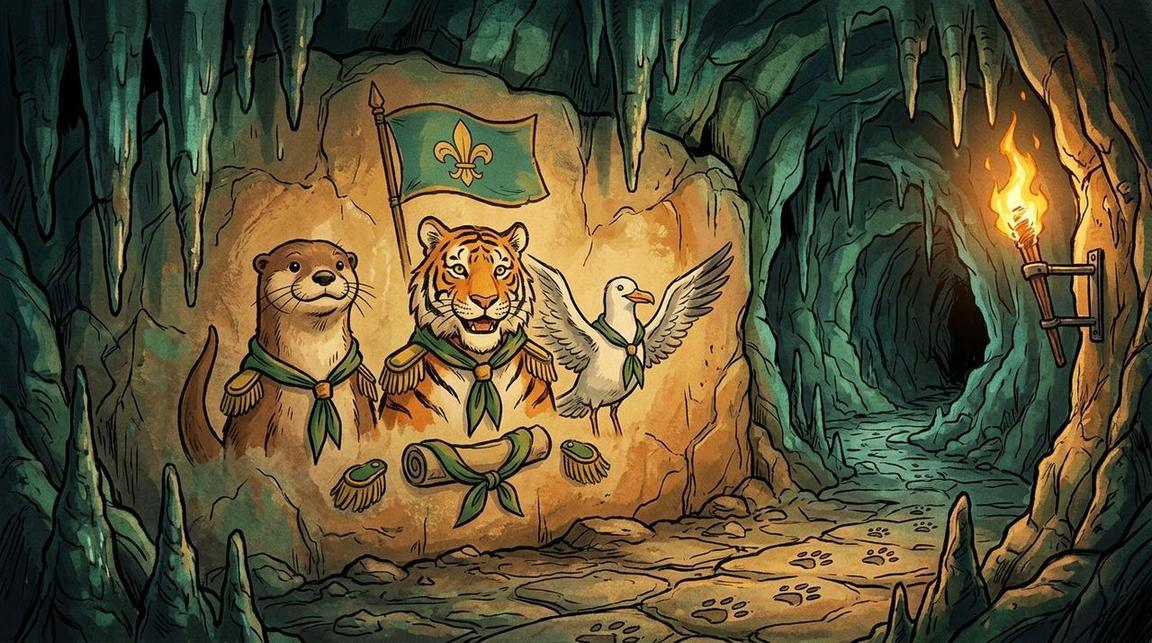
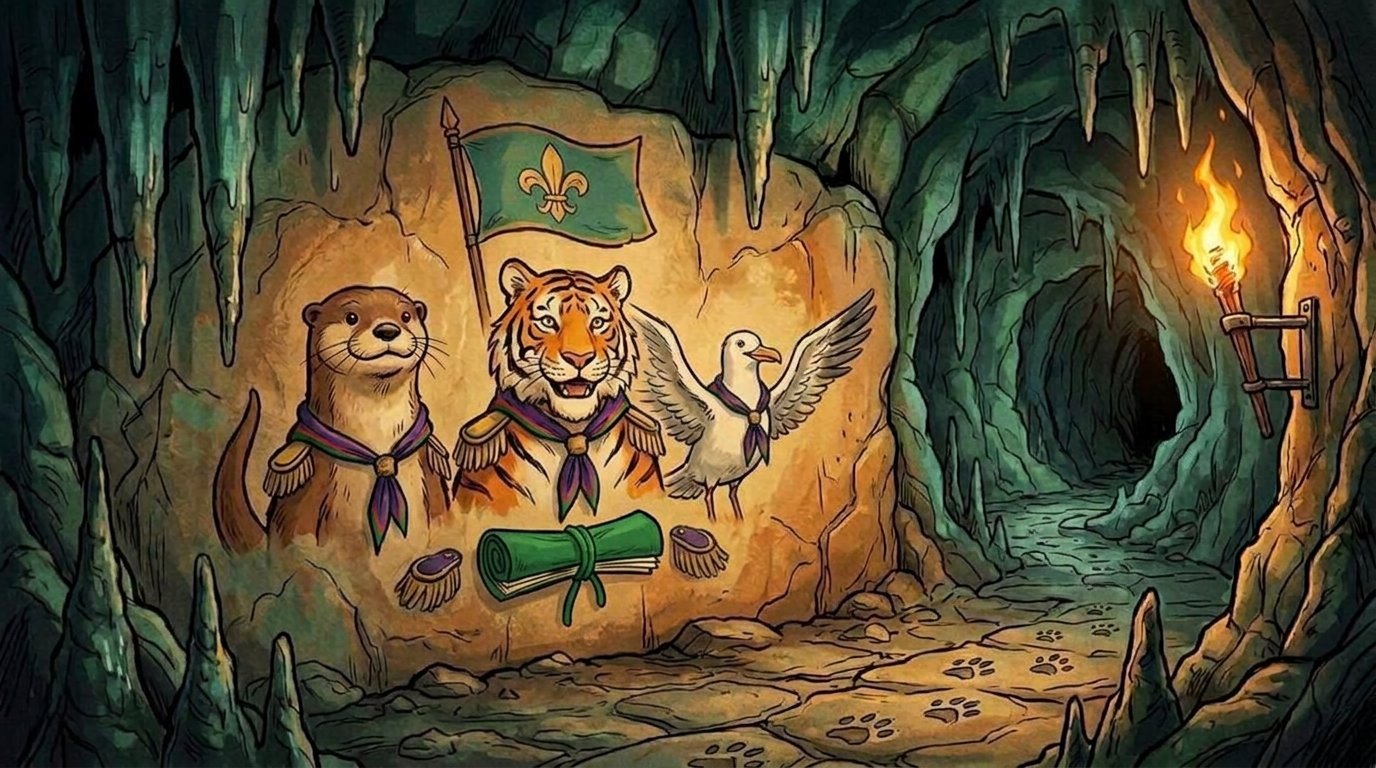
山洞壁畫三：旅巾改為紫色、綠紅條紋（配合 82 旅真正的旅巾）
領袖指出旅巾其實是紫色配綠、紅條紋，不是綠色。改了三處：

· static/img/quest/cave/wall-group.jpg —— 重新繪畫：三隻動物的旅巾改成
  深紫底、兩邊綠紅條紋，皮革巾圈保留；童軍紀錄簿仍是綠色（丙15 的答案）。
· content/member-badge/cave.json —— 壁畫三的文字：導言、資料欄、記憶提示
  都改成「一條紫色的旅巾，兩邊各有綠紅條紋；紀錄簿是綠色」。
· 丙14「第 82 旅旅巾是甚麼顏色？」的選項改為「紫色（綠、紅條紋）」，
  種子答案由「綠色」改為紫色；解釋改寫成旅巾的描述。
  （種子只在首次建立寫入；領袖在平台改過的答案不受影響。）

另新增 tools/optimise_screens.py：把檢查腳本產生的 PNG 截圖轉 WebP，
保持 docs/screens 與發佈包精簡。

驗證：403 passed、check_cave 全程（含第三段壁畫）、check_offline 綠；
離線示範已重建，內含紫巾壁畫與新選項。

diff --git a/tools/optimise_screens.py b/tools/optimise_screens.py
@@ -1,0 +1,58 @@
+#!/usr/bin/env python3
+"""Turn freshly taken QA screenshots into small WebP files.
+
+The browser checks (`tools/checks/check_*.py`) drop PNGs into docs/screens/.
+That folder is not version-controlled, but it does travel inside the release
+pack, so keeping it lean matters:
+
+    cd scout-platform-py && python3 tools/optimise_screens.py
+
+Every *.png under docs/screens/ is re-encoded as WebP (width ≤ 1100, quality 88)
+and the PNG is removed when the WebP is smaller — which it always is.
+Existing *.webp files are left alone. Safe to run any time.
+"""
+from __future__ import annotations
+
+import pathlib
+
+from PIL import Image
+
+ROOT = pathlib.Path(__file__).resolve().parent.parent
+FOLDER = ROOT / "docs" / "screens"
+
+
+def main() -> None:
+    before = after = 0
+    converted = skipped = 0
+    for png in sorted(FOLDER.glob("*.png")):
+        size = png.stat().st_size
+        before += size
+        try:
+            img = Image.open(png)
+            img.load()
+        except Exception as exc:                      # noqa: BLE001
+            print("kept (unreadable):", png.name, exc)
+            after += size
+            skipped += 1
+            continue
+        if img.mode not in ("RGB", "RGBA"):
+            img = img.convert("RGB")
+        if img.width > 1100:
+            img = img.resize((1100, round(img.height * 1100 / img.width)), Image.LANCZOS)
+        out = png.with_suffix(".webp")
+        img.save(out, "WEBP", quality=88, method=6)
+        new = out.stat().st_size
+        if new < size:
+            png.unlink()
+            after += new
+            converted += 1
+        else:
+            out.unlink()
+            after += size
+            skipped += 1
+    print(f"converted {converted} · kept {skipped} · "
+          f"{before/1048576:.1f} MB → {after/1048576:.1f} MB")
+
+
+if __name__ == "__main__":
+    main()
